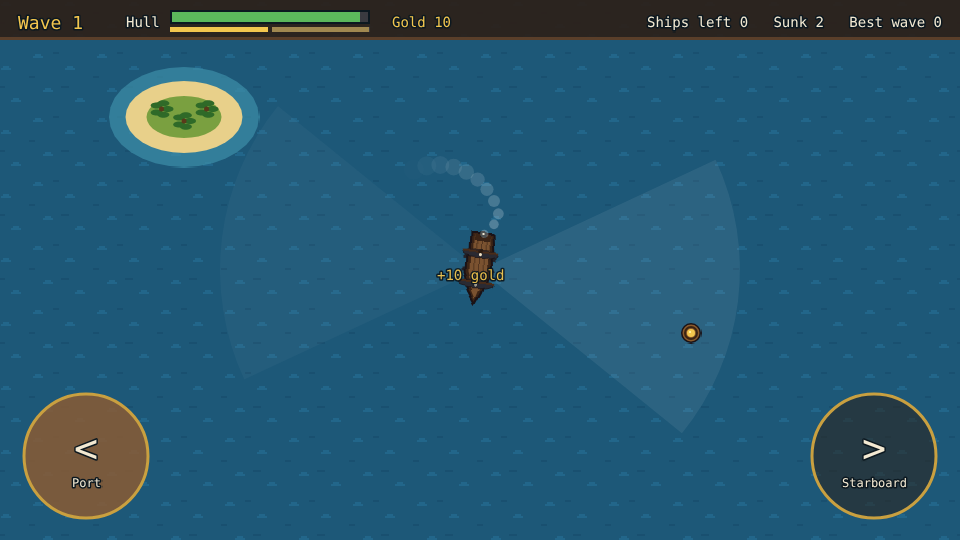
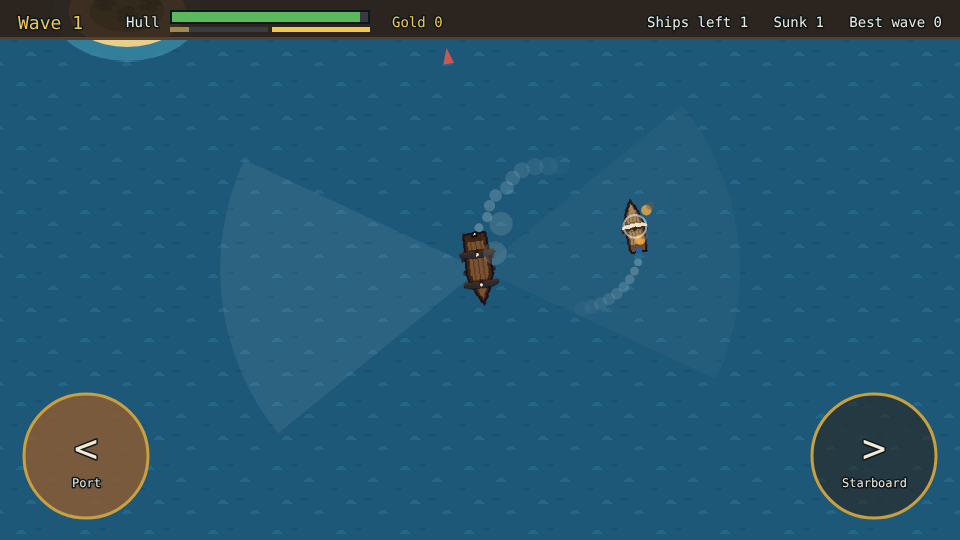
Broadside: haul in all loot still afloat when a wave is beaten
When the last enemy ship of a wave sinks, every barrel of loot still
floating comes aboard at once and the harbor opens straight away,
instead of the player having to sail over each one first. The
playthrough now checks that the harbor opens with both sloops' gold
aboard rather than waiting for the first barrel to be sailed over; its
screenshots, the README and AGENTS.md are refreshed.

Requested by Chriszly

Created with Claude Opus 5.5 (medium)

diff --git a/games/broadside/src/game/sim.ts b/games/broadside/src/game/sim.ts
@@ -16,6 +16,7 @@ import {
   stats,
   type Effect,
   type GameState,
+  type Loot,
   type Ship,
   type Side,
   wrapCoord,
@@ -98,7 +99,12 @@ export function tick(s: GameState, dt: number) {
   if (playerSunk(s)) return;
 
   gatherLoot(s, dt);
-  if (s.toSpawn.length === 0 && s.enemies.length === 0 && s.loot.length === 0) reachHarbor(s);
+  if (s.toSpawn.length === 0 && s.enemies.length === 0) {
+    // The wave is beaten: the crew hauls in every barrel still afloat before putting into harbor.
+    for (const l of s.loot) haulIn(s, l);
+    s.loot = [];
+    reachHarbor(s);
+  }
 }
 
 /** Ends the run if the player's hull is gone. */
@@ -304,9 +310,7 @@ function gatherLoot(s: GameState, dt: number) {
     l.ms -= dt;
     const d = distance(l, player);
     if (d < radiusOf(player) + 8) {
-      s.gold += l.gold;
-      s.plundered += l.gold;
-      effect(s, 'coins', l.x, l.y, 900, { gold: l.gold });
+      haulIn(s, l);
       return false;
     }
     if (d < LOOT_PULL) {
@@ -318,6 +322,13 @@ function gatherLoot(s: GameState, dt: number) {
     }
     return l.ms > 0;
   });
+}
+
+/** A barrel of loot comes aboard: its gold goes into the hold. */
+function haulIn(s: GameState, l: Loot) {
+  s.gold += l.gold;
+  s.plundered += l.gold;
+  effect(s, 'coins', l.x, l.y, 900, { gold: l.gold });
 }
 
 function reachHarbor(s: GameState) {

diff --git a/games/broadside/e2e/playthrough.spec.ts b/games/broadside/e2e/playthrough.spec.ts
@@ -244,15 +244,13 @@ test('plays the first wave', async ({ page }, testInfo) => {
   await snap('0-broadside');
   s = await until('an enemy hit', (s) => s.enemies.some((e) => e.hp < e.maxHp) || s.sunk > 0, 10_000, course);
 
-  // A sunk ship leaves a barrel of loot floating behind.
+  // A sunk ship leaves a barrel of loot floating behind; sailing over it adds its gold to the hold.
   s = await until('a sloop sunk', (s) => s.sunk > 0, 60_000, course);
-  expect(s.loot.length + (s.gold > 0 ? 1 : 0)).toBeGreaterThan(0);
-
-  // Sink the other and sail over the loot: each barrel adds its gold to the hold. The harbor opens
-  // once no ship or loot is left.
-  s = await until('first loot picked up', (s) => s.gold > 0, 60_000, course);
-  expect(s.gold).toBe(SLOOP_LOOT);
+  expect(s.loot.length + s.gold / SLOOP_LOOT).toBe(1);
   await snap('1-loot');
+
+  // Sink the other. Once the last ship of the wave goes down, the crew hauls in every barrel still
+  // afloat and the harbor opens.
   s = await until('wave 1 beaten', (s) => s.phase === 'harbor', 90_000, course);
   await helm(0);
   expect(s).toMatchObject({ wave: 1, sunk: 2, gold: 2 * SLOOP_LOOT, plundered: 2 * SLOOP_LOOT, bestWave: 1, enemies: [], loot: [] });

diff --git a/games/broadside/AGENTS.md b/games/broadside/AGENTS.md
@@ -13,7 +13,8 @@ off either side. Sunk enemies drop loot barrels, and gold buys upgrades at a har
 - **Implemented:** endless waves (sloops from wave 1, brigs from wave 3, galleons from wave 5) with
   enemy hull scaling per wave. Enemy AI closes in, turns to bring a broadside to bear and bears
   away rather than ram. Broadsides lead their target, and enemy aim has a random spread. Loot
-  drifts toward the player and expires. There is a harbor shop with five upgrades plus a paid
+  drifts toward the player and expires; when a wave's last enemy sinks, every barrel still afloat
+  is hauled in at once. There is a harbor shop with five upgrades plus a paid
   repair, a game-over panel with "Sail again", and off-screen arrows pointing to enemies and loot.
   The sea wraps around at every edge like a globe: sailing off the north edge comes back in at the
   south, and off the west edge in at the east. Ships, balls and loot all wrap, and every distance
@@ -44,7 +45,8 @@ File map (all under `src/`, plus the shared files it imports):
   wrapping helpers `wrapCoord`, `wrapPoint` and `offset` (the shortest `dx`, `dy` between two
   points on the sea).
 - `game/sim.ts`: all rules. `tick` handles steering, spawning, enemy AI, separation, running
-  aground on islands (`runAground`), firing, balls, sinking, loot and reaching the harbor. `buy`, `repair` and `setSail` are the harbor actions.
+  aground on islands (`runAground`), firing, balls, sinking, loot (`haulIn`) and reaching the
+  harbor. `buy`, `repair` and `setSail` are the harbor actions.
 - `game/ships.ts`: the `ENEMIES` table (hp, radius, speed, turn, guns, damage, reload, range, loot).
 - `game/upgrades.ts`: the `UPGRADES` table, `UPGRADE_IDS`, `costOf` and `REPAIR_COST`.
 - `game/waves.ts`: `waveShips(wave)` (which ships come, in order) and `hpScale(wave)`.
@@ -70,8 +72,9 @@ How it runs:
   second.
 - **Phases:** `GameState.phase` is one of `break` (wave banner for `BREAK_MS`; the player can sail
   but nothing spawns or fires), `fighting`, `harbor` or `over`. `tick` returns early in `harbor`
-  and `over`, after ageing effects. The harbor opens once `toSpawn`, `enemies` and `loot` are all
-  empty. The game is over when the player's hp reaches 0 or below.
+  and `over`, after ageing effects. The harbor opens once `toSpawn` and `enemies` are both empty;
+  on that tick every barrel left in `loot` goes through `haulIn` (gold, `plundered` and a `coins`
+  effect) and `loot` is emptied. The game is over when the player's hp reaches 0 or below.
 - **Input:** each frame the scene sets `state.helm` to -1, 0 or 1. Keys (Left/A, Right/D) win over
   the pointer. Pressing on a helm circle sets `pointerHelm`, and any `pointerup` or `gameout`
   clears it. Harbor rows and the "Set sail" button call `buy`, `repair` or `setSail` through
@@ -161,7 +164,8 @@ Data tables, where to tune:
 - `e2e/playthrough.spec.ts` seeds `Math.random` and drives 64ms frames. It presses the mouse down on
   the helm button centres to steer: first to check a turn each way and that the ship holds its
   heading with the helm released, then to close on each sloop to within `CLOSE_IN` and turn
-  side-on. It sinks both sloops, picks up the loot, and at the harbor taps the `shot` row and then
+  side-on. It sinks both sloops, checks that the first leaves loot (afloat or already sailed
+  over) and that the harbor opens with both sloops' gold aboard, then taps the `shot` row and
   `sail`.
 - Keep in sync with the test: `HELM` centres (copied into the test), `VIEW`, wave 1 being
   `['sloop', 'sloop']`, sloop loot 10 (plus the per-wave bonus, which is 0 on wave 1), the player

diff --git a/games/broadside/README.md b/games/broadside/README.md
@@ -28,8 +28,9 @@ the gold buys a stronger hull, heavier shot, more guns, a faster crew and faster
    broadsides. Their crews aim worse than yours. Red arrows at the edge of the screen point to
    ships out of sight.
 3. **Loot**: every sunk ship leaves a barrel of gold that drifts toward your ship once close. It
-   sinks after 25 seconds, blinking at the end; gold arrows point to barrels out of sight.
-4. **The harbor** opens once no enemy ship or loot is left. The crew patches a quarter of the
+   sinks after 25 seconds, blinking at the end; gold arrows point to barrels out of sight. Once
+   the last ship of a wave goes down, the crew hauls in every barrel still afloat.
+4. **The harbor** opens as soon as the last enemy ship of the wave is sunk. The crew patches a quarter of the
    hull for free; the rest is 10 gold.
 5. **The sea has no edge.** Like on a globe, sailing off the top brings you back in at the
    bottom, and off the left side back in on the right. Enemy ships, loot and cannonballs cross
@@ -79,8 +80,8 @@ page).
 
 `e2e/playthrough.spec.ts` plays the first wave in headless Chromium. It holds the helm buttons
 down to check that the ship turns each way and sails straight on once let go, then steers by them
-to close on each sloop and turn side-on until a broadside fires, hits and sinks it. It sails over
-the loot and checks the gold, waits for the harbor, buys Heavy Shot with the plunder and sets sail
+to close on each sloop and turn side-on until a broadside fires, hits and sinks it. It checks the
+gold from the loot (sailed over, or hauled in when the wave ends), waits for the harbor, buys Heavy Shot with the plunder and sets sail
 for wave 2. Like the other games' tests it owns the game clock and plays at 4x speed
 (`PLAYTHROUGH_SPEED`). The **Playthrough Broadside** workflow
 (`.github/workflows/playthrough-broadside.yml`) runs it on every PR and push to main that touches
